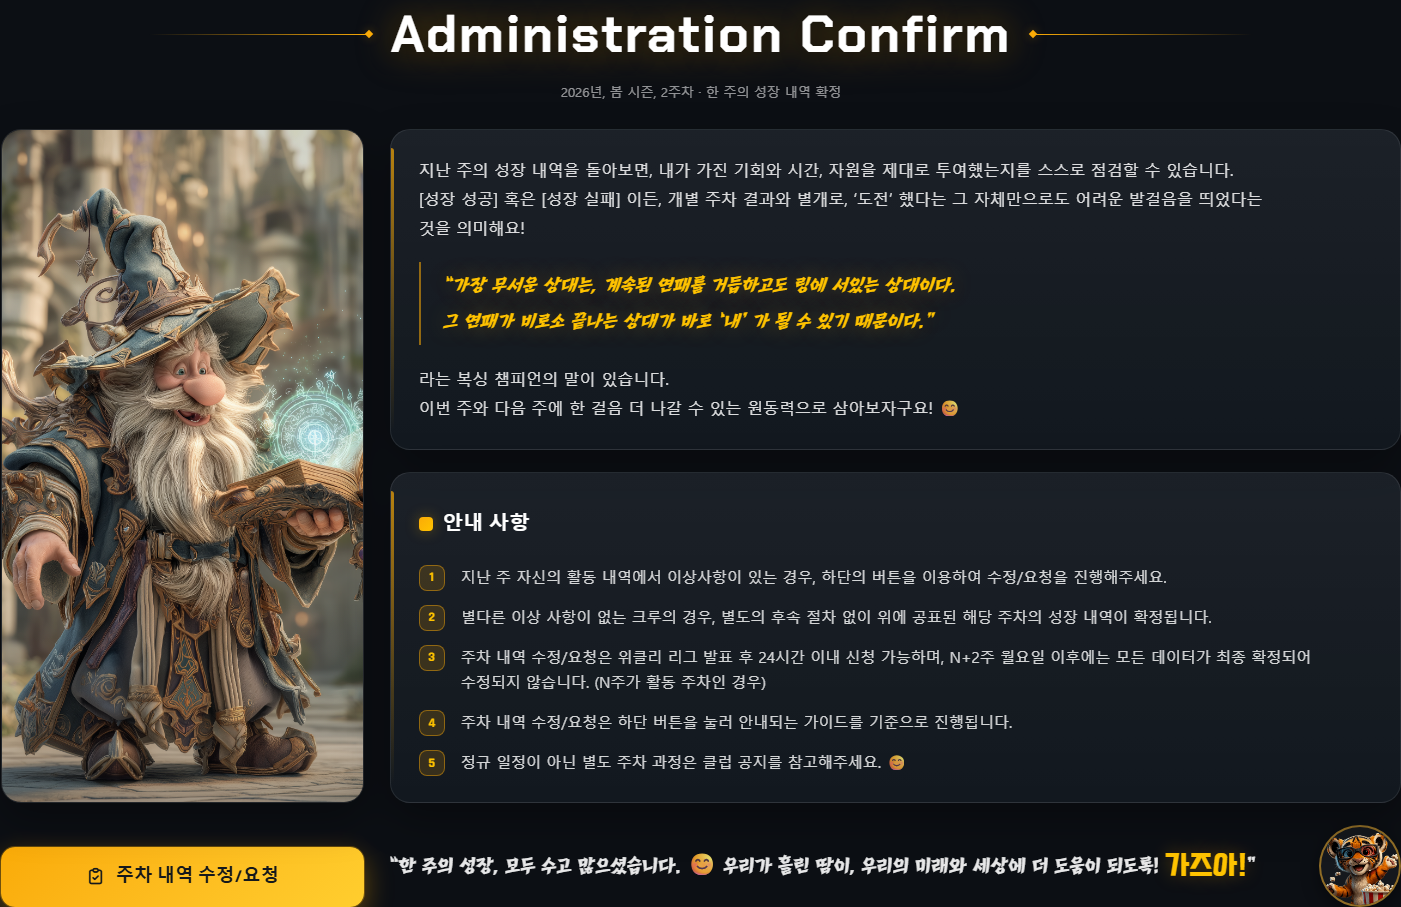
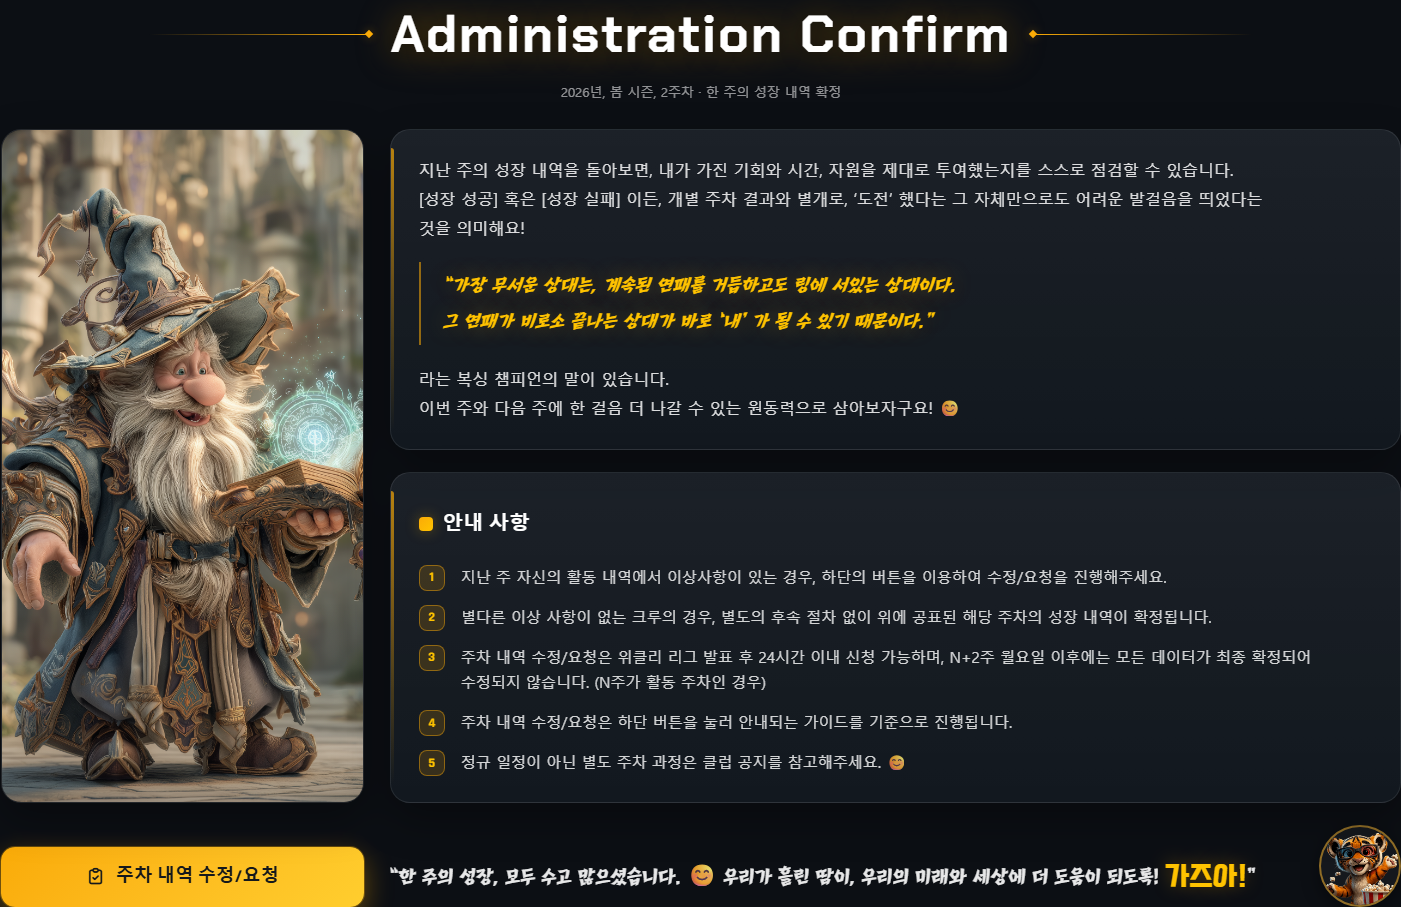
fix(weekly-detail): Administration Confirm 응원 문구만 ~11px 아래로
마지막 응원 문구(.wd-ac__closing-text)만 position:relative + top:11px(≈0.3cm)로
시각적으로 하향 이동. relative 오프셋이라 레이아웃 흐름/형제 요소 불변.

변경 없음(검증): 캐릭터(mascot top/left) · CTA(top/bottom) · 안내 카드(notice bottom) ·
closing 컨테이너 · 폰트/크기/줄간격/그리드/여백 전부 동일. 문구만 정확히 +11px.

Changed region(s): [[0.2762, 0.9261, 0.8901, 0.9879]]

diff --git a/app/(host)/assets/scss/components/_weekly-detail.scss b/app/(host)/assets/scss/components/_weekly-detail.scss
@@ -3029,6 +3029,9 @@
       margin: 0;
       flex: 1 1 auto;
       min-width: 0;
+      // 응원 문구만 시각적으로 ~0.3cm(≈11px) 아래로 — relative 오프셋이라 레이아웃 흐름/형제(캐릭터·CTA) 불변.
+      position: relative;
+      top: 11px;
       font-family: var(--wd-font-subhead);
       // 가독성 강화 — 본문 문장만 ~3~4px 확대(가즈아 제외). 줄간격도 함께 완화.
       font-size: clamp(18px, 1.8vw, 22px);
